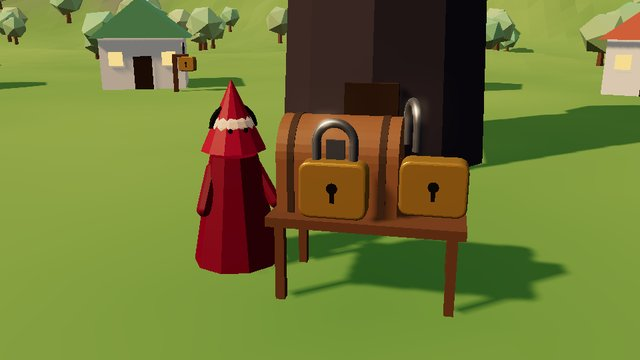
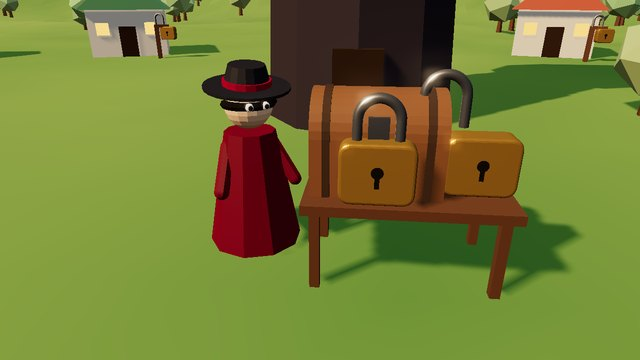
Eve: a spy's fedora and eye mask instead of the pointed red hood, in every episode (r65)
The pointed cone over her head, with two eyes peering out, read as a KKK hood. In the seven
episodes that have her (cadenas, diffie-hellman, scytale, enigma, pingouin, sel, garde), Eve
now wears a dark felt fedora with a red band (her colour stays on the robe and band) and a
black burglar's mask across the eyes, with the eyes showing through. In Enigma her
headphones' band now runs behind her neck, ear to ear, so it no longer pokes through the hat.

The three home cards that showed the hood are re-shot:
  tools/vignette.py cadenas --hash '#story=8' --pos -0.7,4.3,5.6 --target -1.4,1.5,-1 --wait 2500
  tools/vignette.py pingouin --hash '#story=8' --shot wall --wait 2500
  tools/vignette.py sel --hash '#story=8' --pos -4,30,70 --target 0,20,-10 --wait 2500
tests/eve_hat_probe.py films her head front and three-quarters in each episode.

Persona: Mira Cryptographie
Session: mira-fedora-deux-generaux-38

diff --git a/enigma/js/props.js b/enigma/js/props.js
@@ -245,10 +245,15 @@ export function person(kind) {
     const cap = new THREE.Mesh(new THREE.CylinderGeometry(.46, .46, .16, 16), capM); cap.position.y = 2.88; g.add(cap);
     const brim = new THREE.Mesh(new THREE.BoxGeometry(.5, .05, .35), capM); brim.position.set(0, 2.82, .4); g.add(brim);
     const belt = new THREE.Mesh(new THREE.TorusGeometry(.62, .06, 6, 20), mat(c, { metalness: .5 })); belt.rotation.x = Math.PI / 2; belt.position.y = 1.55; g.add(belt);
-  } else {                     // Eve: a deep red hood, and headphones over it
-    const hood = new THREE.Mesh(new THREE.ConeGeometry(.62, 1.3, 12, 1, true), mat(0x9e1b2e, { side: THREE.DoubleSide })); hood.position.y = 2.85; g.add(hood);
-    const mask = new THREE.Mesh(new THREE.TorusGeometry(.4, .06, 6, 16, Math.PI), dark); mask.position.set(0, 2.62, .05); g.add(mask);
-    const band = new THREE.Mesh(new THREE.TorusGeometry(.5, .04, 6, 20, Math.PI), mat(0x222222, { metalness: .6 })); band.position.y = 2.6; band.rotation.y = Math.PI / 2; g.add(band);
+  } else {                     // Eve: a spy's dark fedora with a red band, a black eye mask (r65: not a pointed hood), and headphones over it
+    const felt = mat(0x2a2a30), hat = new THREE.Group(); hat.position.y = 2.86; hat.rotation.x = .12; g.add(hat);
+    const brim = new THREE.Mesh(new THREE.CylinderGeometry(.74, .74, .05, 24), felt); brim.castShadow = true; hat.add(brim);
+    const crown = new THREE.Mesh(new THREE.CylinderGeometry(.31, .41, .36, 16), felt); crown.position.y = .19; crown.castShadow = true; hat.add(crown);
+    const hatband = new THREE.Mesh(new THREE.CylinderGeometry(.415, .42, .1, 16), mat(0x9e1b2e)); hatband.position.y = .08; hat.add(hatband);
+    const mask = new THREE.Mesh(new THREE.TorusGeometry(.42, .075, 6, 20, Math.PI), dark); mask.rotation.x = Math.PI / 2; mask.position.y = 2.6; g.add(mask);
+    for (const x of [-.14, .14]) { const white = new THREE.Mesh(new THREE.SphereGeometry(.07, 10, 8), mat(0xfaf6ee)); white.position.set(x, 2.6, .45); g.add(white);
+      const pupil = new THREE.Mesh(new THREE.SphereGeometry(.04, 8, 6), dark); pupil.position.set(x, 2.6, .51); g.add(pupil); }
+    const band = new THREE.Mesh(new THREE.TorusGeometry(.5, .04, 6, 20, Math.PI), mat(0x222222, { metalness: .6 })); band.position.y = 2.6; band.rotation.x = -Math.PI / 2 - .5; g.add(band);   // behind the neck, under the hat
     for (const s of [-1, 1]) { const cup = new THREE.Mesh(new THREE.CylinderGeometry(.16, .16, .12, 14), mat(0x333333, { metalness: .5 })); cup.rotation.z = Math.PI / 2; cup.position.set(s * .5, 2.6, 0); g.add(cup); }
   }
   outer.userData.head = head; outer.userData.arms = arms;

diff --git a/garde/js/props.js b/garde/js/props.js
@@ -241,9 +241,14 @@ export function person(kind) {
     const band = new THREE.Mesh(new THREE.TorusGeometry(.47, .04, 6, 20), mat(c, { metalness: .7, roughness: .3 })); band.rotation.x = Math.PI / 2; band.position.y = 2.84; g.add(band);
     const star = new THREE.Mesh(new THREE.CircleGeometry(.14, 5), mat(c, { metalness: .8, roughness: .2, side: THREE.DoubleSide })); star.position.set(.22, 1.85, .56); star.rotation.x = -.25; g.add(star);
     const tash = new THREE.Mesh(new THREE.CapsuleGeometry(.05, .22, 4, 8), mat(0x3a2414)); tash.rotation.z = Math.PI / 2; tash.position.set(0, 2.47, .4); g.add(tash);
-  } else {                     // Eve: a deep red hood
-    const hood = new THREE.Mesh(new THREE.ConeGeometry(.62, 1.3, 12, 1, true), mat(0x9e1b2e, { side: THREE.DoubleSide })); hood.position.y = 2.85; g.add(hood);
-    const mask = new THREE.Mesh(new THREE.TorusGeometry(.4, .06, 6, 16, Math.PI), dark); mask.position.set(0, 2.62, .05); g.add(mask);
+  } else {                     // Eve: a spy's dark fedora with a red band, a black eye mask (r65: not a pointed hood)
+    const felt = mat(0x2a2a30), hat = new THREE.Group(); hat.position.y = 2.86; hat.rotation.x = .12; g.add(hat);
+    const brim = new THREE.Mesh(new THREE.CylinderGeometry(.74, .74, .05, 24), felt); brim.castShadow = true; hat.add(brim);
+    const crown = new THREE.Mesh(new THREE.CylinderGeometry(.31, .41, .36, 16), felt); crown.position.y = .19; crown.castShadow = true; hat.add(crown);
+    const hatband = new THREE.Mesh(new THREE.CylinderGeometry(.415, .42, .1, 16), mat(0x9e1b2e)); hatband.position.y = .08; hat.add(hatband);
+    const mask = new THREE.Mesh(new THREE.TorusGeometry(.42, .075, 6, 20, Math.PI), dark); mask.rotation.x = Math.PI / 2; mask.position.y = 2.6; g.add(mask);
+    for (const x of [-.14, .14]) { const white = new THREE.Mesh(new THREE.SphereGeometry(.07, 10, 8), mat(0xfaf6ee)); white.position.set(x, 2.6, .45); g.add(white);
+      const pupil = new THREE.Mesh(new THREE.SphereGeometry(.04, 8, 6), dark); pupil.position.set(x, 2.6, .51); g.add(pupil); }
   }
   outer.userData.head = head; outer.userData.arms = arms;
   return outer;

diff --git a/pingouin/js/props.js b/pingouin/js/props.js
@@ -165,9 +165,14 @@ export function person(kind) {
     const cap = new THREE.Mesh(new THREE.CylinderGeometry(.46, .46, .16, 16), capM); cap.position.y = 2.88; g.add(cap);
     const brim = new THREE.Mesh(new THREE.BoxGeometry(.5, .05, .35), capM); brim.position.set(0, 2.82, .4); g.add(brim);
     const belt = new THREE.Mesh(new THREE.TorusGeometry(.62, .06, 6, 20), mat(c, { metalness: .5 })); belt.rotation.x = Math.PI / 2; belt.position.y = 1.55; g.add(belt);
-  } else {                     // Eve: a deep red hood
-    const hood = new THREE.Mesh(new THREE.ConeGeometry(.62, 1.3, 12, 1, true), mat(0x9e1b2e, { side: THREE.DoubleSide })); hood.position.y = 2.85; g.add(hood);
-    const mask = new THREE.Mesh(new THREE.TorusGeometry(.4, .06, 6, 16, Math.PI), dark); mask.position.set(0, 2.62, .05); g.add(mask);
+  } else {                     // Eve: a spy's dark fedora with a red band, a black eye mask (r65: not a pointed hood)
+    const felt = mat(0x2a2a30), hat = new THREE.Group(); hat.position.y = 2.86; hat.rotation.x = .12; g.add(hat);
+    const brim = new THREE.Mesh(new THREE.CylinderGeometry(.74, .74, .05, 24), felt); brim.castShadow = true; hat.add(brim);
+    const crown = new THREE.Mesh(new THREE.CylinderGeometry(.31, .41, .36, 16), felt); crown.position.y = .19; crown.castShadow = true; hat.add(crown);
+    const hatband = new THREE.Mesh(new THREE.CylinderGeometry(.415, .42, .1, 16), mat(0x9e1b2e)); hatband.position.y = .08; hat.add(hatband);
+    const mask = new THREE.Mesh(new THREE.TorusGeometry(.42, .075, 6, 20, Math.PI), dark); mask.rotation.x = Math.PI / 2; mask.position.y = 2.6; g.add(mask);
+    for (const x of [-.14, .14]) { const white = new THREE.Mesh(new THREE.SphereGeometry(.07, 10, 8), mat(0xfaf6ee)); white.position.set(x, 2.6, .45); g.add(white);
+      const pupil = new THREE.Mesh(new THREE.SphereGeometry(.04, 8, 6), dark); pupil.position.set(x, 2.6, .51); g.add(pupil); }
   }
   outer.userData.head = head; outer.userData.arms = arms;
   return outer;

diff --git a/sel/js/props.js b/sel/js/props.js
@@ -286,9 +286,14 @@ export function person(kind) {
     const cap = new THREE.Mesh(new THREE.CylinderGeometry(.46, .46, .16, 16), capM); cap.position.y = 2.88; g.add(cap);
     const brim = new THREE.Mesh(new THREE.BoxGeometry(.5, .05, .35), capM); brim.position.set(0, 2.82, .4); g.add(brim);
     const belt = new THREE.Mesh(new THREE.TorusGeometry(.62, .06, 6, 20), mat(c, { metalness: .5 })); belt.rotation.x = Math.PI / 2; belt.position.y = 1.55; g.add(belt);
-  } else {                     // Eve: a deep red hood
-    const hood = new THREE.Mesh(new THREE.ConeGeometry(.62, 1.3, 12, 1, true), mat(0x9e1b2e, { side: THREE.DoubleSide })); hood.position.y = 2.85; g.add(hood);
-    const mask = new THREE.Mesh(new THREE.TorusGeometry(.4, .06, 6, 16, Math.PI), dark); mask.position.set(0, 2.62, .05); g.add(mask);
+  } else {                     // Eve: a spy's dark fedora with a red band, a black eye mask (r65: not a pointed hood)
+    const felt = mat(0x2a2a30), hat = new THREE.Group(); hat.position.y = 2.86; hat.rotation.x = .12; g.add(hat);
+    const brim = new THREE.Mesh(new THREE.CylinderGeometry(.74, .74, .05, 24), felt); brim.castShadow = true; hat.add(brim);
+    const crown = new THREE.Mesh(new THREE.CylinderGeometry(.31, .41, .36, 16), felt); crown.position.y = .19; crown.castShadow = true; hat.add(crown);
+    const hatband = new THREE.Mesh(new THREE.CylinderGeometry(.415, .42, .1, 16), mat(0x9e1b2e)); hatband.position.y = .08; hat.add(hatband);
+    const mask = new THREE.Mesh(new THREE.TorusGeometry(.42, .075, 6, 20, Math.PI), dark); mask.rotation.x = Math.PI / 2; mask.position.y = 2.6; g.add(mask);
+    for (const x of [-.14, .14]) { const white = new THREE.Mesh(new THREE.SphereGeometry(.07, 10, 8), mat(0xfaf6ee)); white.position.set(x, 2.6, .45); g.add(white);
+      const pupil = new THREE.Mesh(new THREE.SphereGeometry(.04, 8, 6), dark); pupil.position.set(x, 2.6, .51); g.add(pupil); }
   }
   outer.userData.head = head; outer.userData.arms = arms;
   return outer;

diff --git a/cadenas/js/props.js b/cadenas/js/props.js
@@ -111,9 +111,14 @@ export function person(kind) {
     const belt = new THREE.Mesh(new THREE.TorusGeometry(.62, .06, 6, 20), mat(c, { metalness: .5 })); belt.rotation.x = Math.PI / 2; belt.position.y = 1.55; g.add(belt);
   } else if (kind === 'n') {   // the courier: a postman's cap
     const cap = new THREE.Mesh(new THREE.CylinderGeometry(.4, .44, .3, 14), mat(0x2f3a2e)); cap.position.y = 2.9; g.add(cap);
-  } else {                     // Eve: a deep red hood
-    const hood = new THREE.Mesh(new THREE.ConeGeometry(.62, 1.3, 12, 1, true), mat(0x9e1b2e, { side: THREE.DoubleSide })); hood.position.y = 2.85; g.add(hood);
-    const mask = new THREE.Mesh(new THREE.TorusGeometry(.4, .06, 6, 16, Math.PI), dark); mask.position.set(0, 2.62, .05); g.add(mask);
+  } else {                     // Eve: a spy's dark fedora with a red band, a black eye mask (r65: not a pointed hood)
+    const felt = mat(0x2a2a30), hat = new THREE.Group(); hat.position.y = 2.86; hat.rotation.x = .12; g.add(hat);
+    const brim = new THREE.Mesh(new THREE.CylinderGeometry(.74, .74, .05, 24), felt); brim.castShadow = true; hat.add(brim);
+    const crown = new THREE.Mesh(new THREE.CylinderGeometry(.31, .41, .36, 16), felt); crown.position.y = .19; crown.castShadow = true; hat.add(crown);
+    const hatband = new THREE.Mesh(new THREE.CylinderGeometry(.415, .42, .1, 16), mat(0x9e1b2e)); hatband.position.y = .08; hat.add(hatband);
+    const mask = new THREE.Mesh(new THREE.TorusGeometry(.42, .075, 6, 20, Math.PI), dark); mask.rotation.x = Math.PI / 2; mask.position.y = 2.6; g.add(mask);
+    for (const x of [-.14, .14]) { const white = new THREE.Mesh(new THREE.SphereGeometry(.07, 10, 8), mat(0xfaf6ee)); white.position.set(x, 2.6, .45); g.add(white);
+      const pupil = new THREE.Mesh(new THREE.SphereGeometry(.04, 8, 6), dark); pupil.position.set(x, 2.6, .51); g.add(pupil); }
   }
   g.userData.head = head; g.userData.arms = arms;
   return g;

diff --git a/diffie-hellman/js/props.js b/diffie-hellman/js/props.js
@@ -106,9 +106,14 @@ export function person(kind) {
     const belt = new THREE.Mesh(new THREE.TorusGeometry(.62, .06, 6, 20), mat(c, { metalness: .5 })); belt.rotation.x = Math.PI / 2; belt.position.y = 1.55; g.add(belt);
   } else if (kind === 'n') {   // the courier: a postman's cap
     const cap = new THREE.Mesh(new THREE.CylinderGeometry(.4, .44, .3, 14), mat(0x2f3a2e)); cap.position.y = 2.9; g.add(cap);
-  } else {                     // Eve: a deep red hood
-    const hood = new THREE.Mesh(new THREE.ConeGeometry(.62, 1.3, 12, 1, true), mat(0x9e1b2e, { side: THREE.DoubleSide })); hood.position.y = 2.85; g.add(hood);
-    const mask = new THREE.Mesh(new THREE.TorusGeometry(.4, .06, 6, 16, Math.PI), dark); mask.position.set(0, 2.62, .05); g.add(mask);
+  } else {                     // Eve: a spy's dark fedora with a red band, a black eye mask (r65: not a pointed hood)
+    const felt = mat(0x2a2a30), hat = new THREE.Group(); hat.position.y = 2.86; hat.rotation.x = .12; g.add(hat);
+    const brim = new THREE.Mesh(new THREE.CylinderGeometry(.74, .74, .05, 24), felt); brim.castShadow = true; hat.add(brim);
+    const crown = new THREE.Mesh(new THREE.CylinderGeometry(.31, .41, .36, 16), felt); crown.position.y = .19; crown.castShadow = true; hat.add(crown);
+    const hatband = new THREE.Mesh(new THREE.CylinderGeometry(.415, .42, .1, 16), mat(0x9e1b2e)); hatband.position.y = .08; hat.add(hatband);
+    const mask = new THREE.Mesh(new THREE.TorusGeometry(.42, .075, 6, 20, Math.PI), dark); mask.rotation.x = Math.PI / 2; mask.position.y = 2.6; g.add(mask);
+    for (const x of [-.14, .14]) { const white = new THREE.Mesh(new THREE.SphereGeometry(.07, 10, 8), mat(0xfaf6ee)); white.position.set(x, 2.6, .45); g.add(white);
+      const pupil = new THREE.Mesh(new THREE.SphereGeometry(.04, 8, 6), dark); pupil.position.set(x, 2.6, .51); g.add(pupil); }
   }
   g.userData.head = head; g.userData.arms = arms;
   return g;

diff --git a/scytale/js/props.js b/scytale/js/props.js
@@ -82,9 +82,14 @@ export function person(kind) {
   } else if (kind === 'n') {   // the messenger: a traveller's broad hat
     const hat = mat(0x6b5330), crown = new THREE.Mesh(new THREE.CylinderGeometry(.3, .38, .28, 14), hat); crown.position.y = 2.98; g.add(crown);
     const brim = new THREE.Mesh(new THREE.CylinderGeometry(.75, .75, .05, 18), hat); brim.position.y = 2.86; g.add(brim);
-  } else {                     // Eve: a deep red hood
-    const hood = new THREE.Mesh(new THREE.ConeGeometry(.62, 1.3, 12, 1, true), mat(0x9e1b2e, { side: THREE.DoubleSide })); hood.position.y = 2.85; g.add(hood);
-    const mask = new THREE.Mesh(new THREE.TorusGeometry(.4, .06, 6, 16, Math.PI), dark); mask.position.set(0, 2.62, .05); g.add(mask);
+  } else {                     // Eve: a spy's dark fedora with a red band, a black eye mask (r65: not a pointed hood)
+    const felt = mat(0x2a2a30), hat = new THREE.Group(); hat.position.y = 2.86; hat.rotation.x = .12; g.add(hat);
+    const brim = new THREE.Mesh(new THREE.CylinderGeometry(.74, .74, .05, 24), felt); brim.castShadow = true; hat.add(brim);
+    const crown = new THREE.Mesh(new THREE.CylinderGeometry(.31, .41, .36, 16), felt); crown.position.y = .19; crown.castShadow = true; hat.add(crown);
+    const hatband = new THREE.Mesh(new THREE.CylinderGeometry(.415, .42, .1, 16), mat(0x9e1b2e)); hatband.position.y = .08; hat.add(hatband);
+    const mask = new THREE.Mesh(new THREE.TorusGeometry(.42, .075, 6, 20, Math.PI), dark); mask.rotation.x = Math.PI / 2; mask.position.y = 2.6; g.add(mask);
+    for (const x of [-.14, .14]) { const white = new THREE.Mesh(new THREE.SphereGeometry(.07, 10, 8), mat(0xfaf6ee)); white.position.set(x, 2.6, .45); g.add(white);
+      const pupil = new THREE.Mesh(new THREE.SphereGeometry(.04, 8, 6), dark); pupil.position.set(x, 2.6, .51); g.add(pupil); }
   }
   g.userData.head = head; g.userData.arms = arms;
   return g;

diff --git a/tests/eve_hat_probe.py b/tests/eve_hat_probe.py
@@ -1,0 +1,61 @@
+#!/usr/bin/env python3
+"""r65: Eve's head close up in every episode that has her (fedora + eye mask, not a pointed hood).
+Finds her by the hat's brim, flies the camera to face her and to three-quarters, and shoots
+<out>/<ep>-front.png and <ep>-side.png, plus one sheet <out>/eve-sheet.png.
+
+Serve the repo first (python3 -m http.server 8793), then:  python3 tests/eve_hat_probe.py [out/r65]
+"""
+import sys, os
+from playwright.sync_api import sync_playwright
+from PIL import Image
+
+EPISODES = [('cadenas', 8), ('diffie-hellman', 7), ('scytale', 7), ('enigma', 10), ('pingouin', 2), ('sel', 2), ('garde', 2)]
+out = sys.argv[1] if len(sys.argv) > 1 else 'out/r65'
+base = sys.argv[2] if len(sys.argv) > 2 else 'http://localhost:8793/'
+os.makedirs(out, exist_ok=True)
+
+# every Eve in the scene: the brim is the only 0.74-radius cylinder; its parent's parent is her figure
+FIND = """() => { const V = demo.THREE.Vector3, found = [];
+  demo.scene.traverse(o => { const p = o.geometry?.parameters;
+    if (o.isMesh && p && p.radiusTop === .74 && p.height === .05) found.push(o); });
+  return found.map(b => { const fig = b.parent.parent, head = new V(0, 2.6, 0), front = new V(0, 2.6, 1);
+    fig.localToWorld(head); fig.localToWorld(front); const s = new V(); fig.getWorldScale(s);
+    return { head: head.toArray(), dir: front.sub(head).normalize().toArray(), scale: s.x, visible: fig.visible }; }); }"""
+fails, tiles = [], []
+with sync_playwright() as p:
+    b = p.chromium.launch(args=['--use-angle=swiftshader', '--enable-unsafe-swiftshader', '--ignore-gpu-blocklist'])
+    for ep, step in EPISODES:
+        pg = b.new_page(viewport={'width': 900, 'height': 700})
+        errors = []
+        pg.on('pageerror', lambda e: errors.append(str(e)))
+        pg.goto(f'{base}{ep}/?instant=1#story={step}', wait_until='load')
+        pg.wait_for_function('window.demo && window.demo.ready', timeout=60000)
+        pg.wait_for_timeout(1500)
+        eves = pg.evaluate(FIND)
+        if not eves:
+            fails.append(f'{ep}: no Eve with the hat found'); print('FAIL', ep, 'no hat'); continue
+        e = max(eves, key=lambda x: x['visible'])
+        hx, hy, hz = e['head']; dx, dy, dz = e['dir']; k = e['scale']
+        for name, (side, dist) in {'front': (0, 3.2), 'side': (.8, 3.2)}.items():
+            # turn the facing direction by `side` radians around the vertical
+            import math
+            c, s = math.cos(side), math.sin(side)
+            rx, rz = dx * c + dz * s, -dx * s + dz * c
+            pos = [hx + rx * dist * k, hy + .5 * k, hz + rz * dist * k]
+            pg.evaluate(f"""() => {{ const V = demo.THREE.Vector3; demo.bubbles?.clear?.();
+              document.querySelectorAll('.panel, header, #card, .bubble').forEach(el => el.style.visibility = 'hidden');
+              demo.rig.fly({{ pos: new V({pos[0]}, {pos[1]}, {pos[2]}), target: new V({hx}, {hy}, {hz}) }}, 0.001); }}""")
+            pg.wait_for_timeout(900)
+            f = f'{out}/{ep}-{name}.png'; pg.screenshot(path=f); tiles.append((ep, name, f))
+        print(ep, 'eves', len(eves), 'errors', errors or 'none')
+        if errors: fails.append(f'{ep}: {errors}')
+        pg.close()
+    b.close()
+if tiles:
+    W, H = 450, 350
+    sheet = Image.new('RGB', (W * 2, H * len(tiles) // 2))
+    for i, (_, _, f) in enumerate(tiles):
+        sheet.paste(Image.open(f).crop((225, 175, 675, 525)), ((i % 2) * W, (i // 2) * H))
+    sheet.save(f'{out}/eve-sheet.png')
+print('FAIL' if fails else 'ok', fails)
+raise SystemExit(1 if fails else 0)
